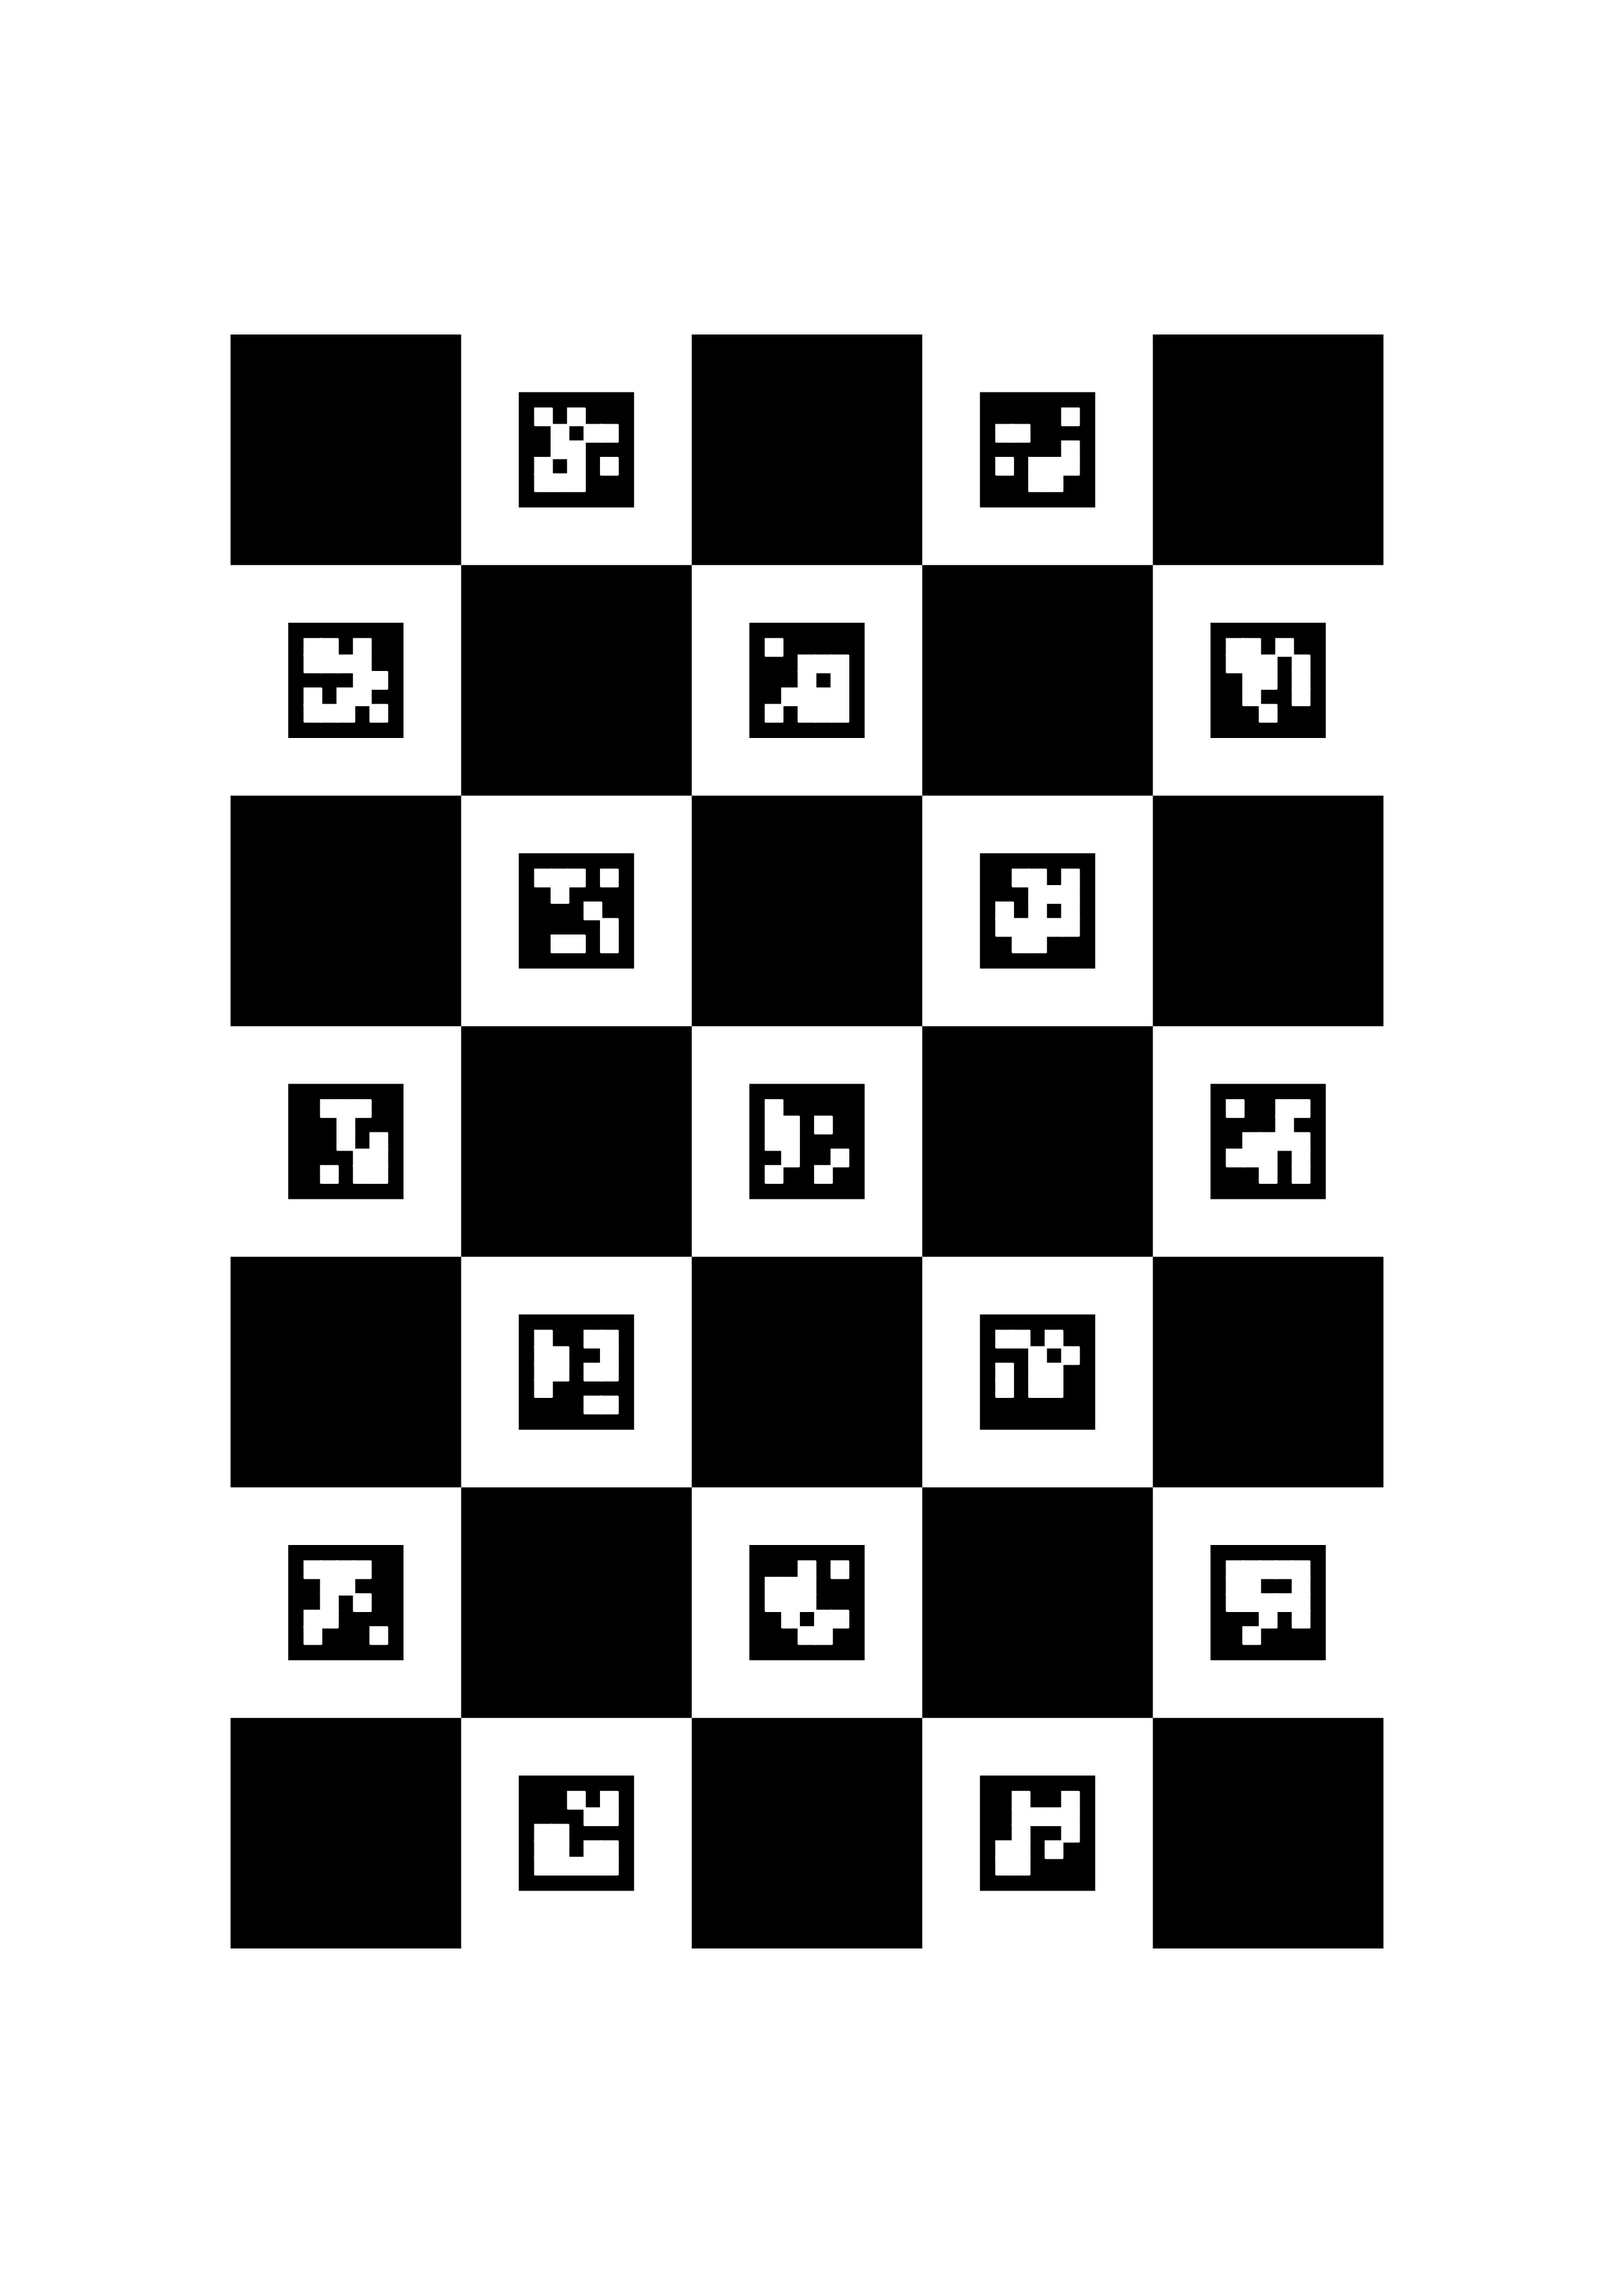
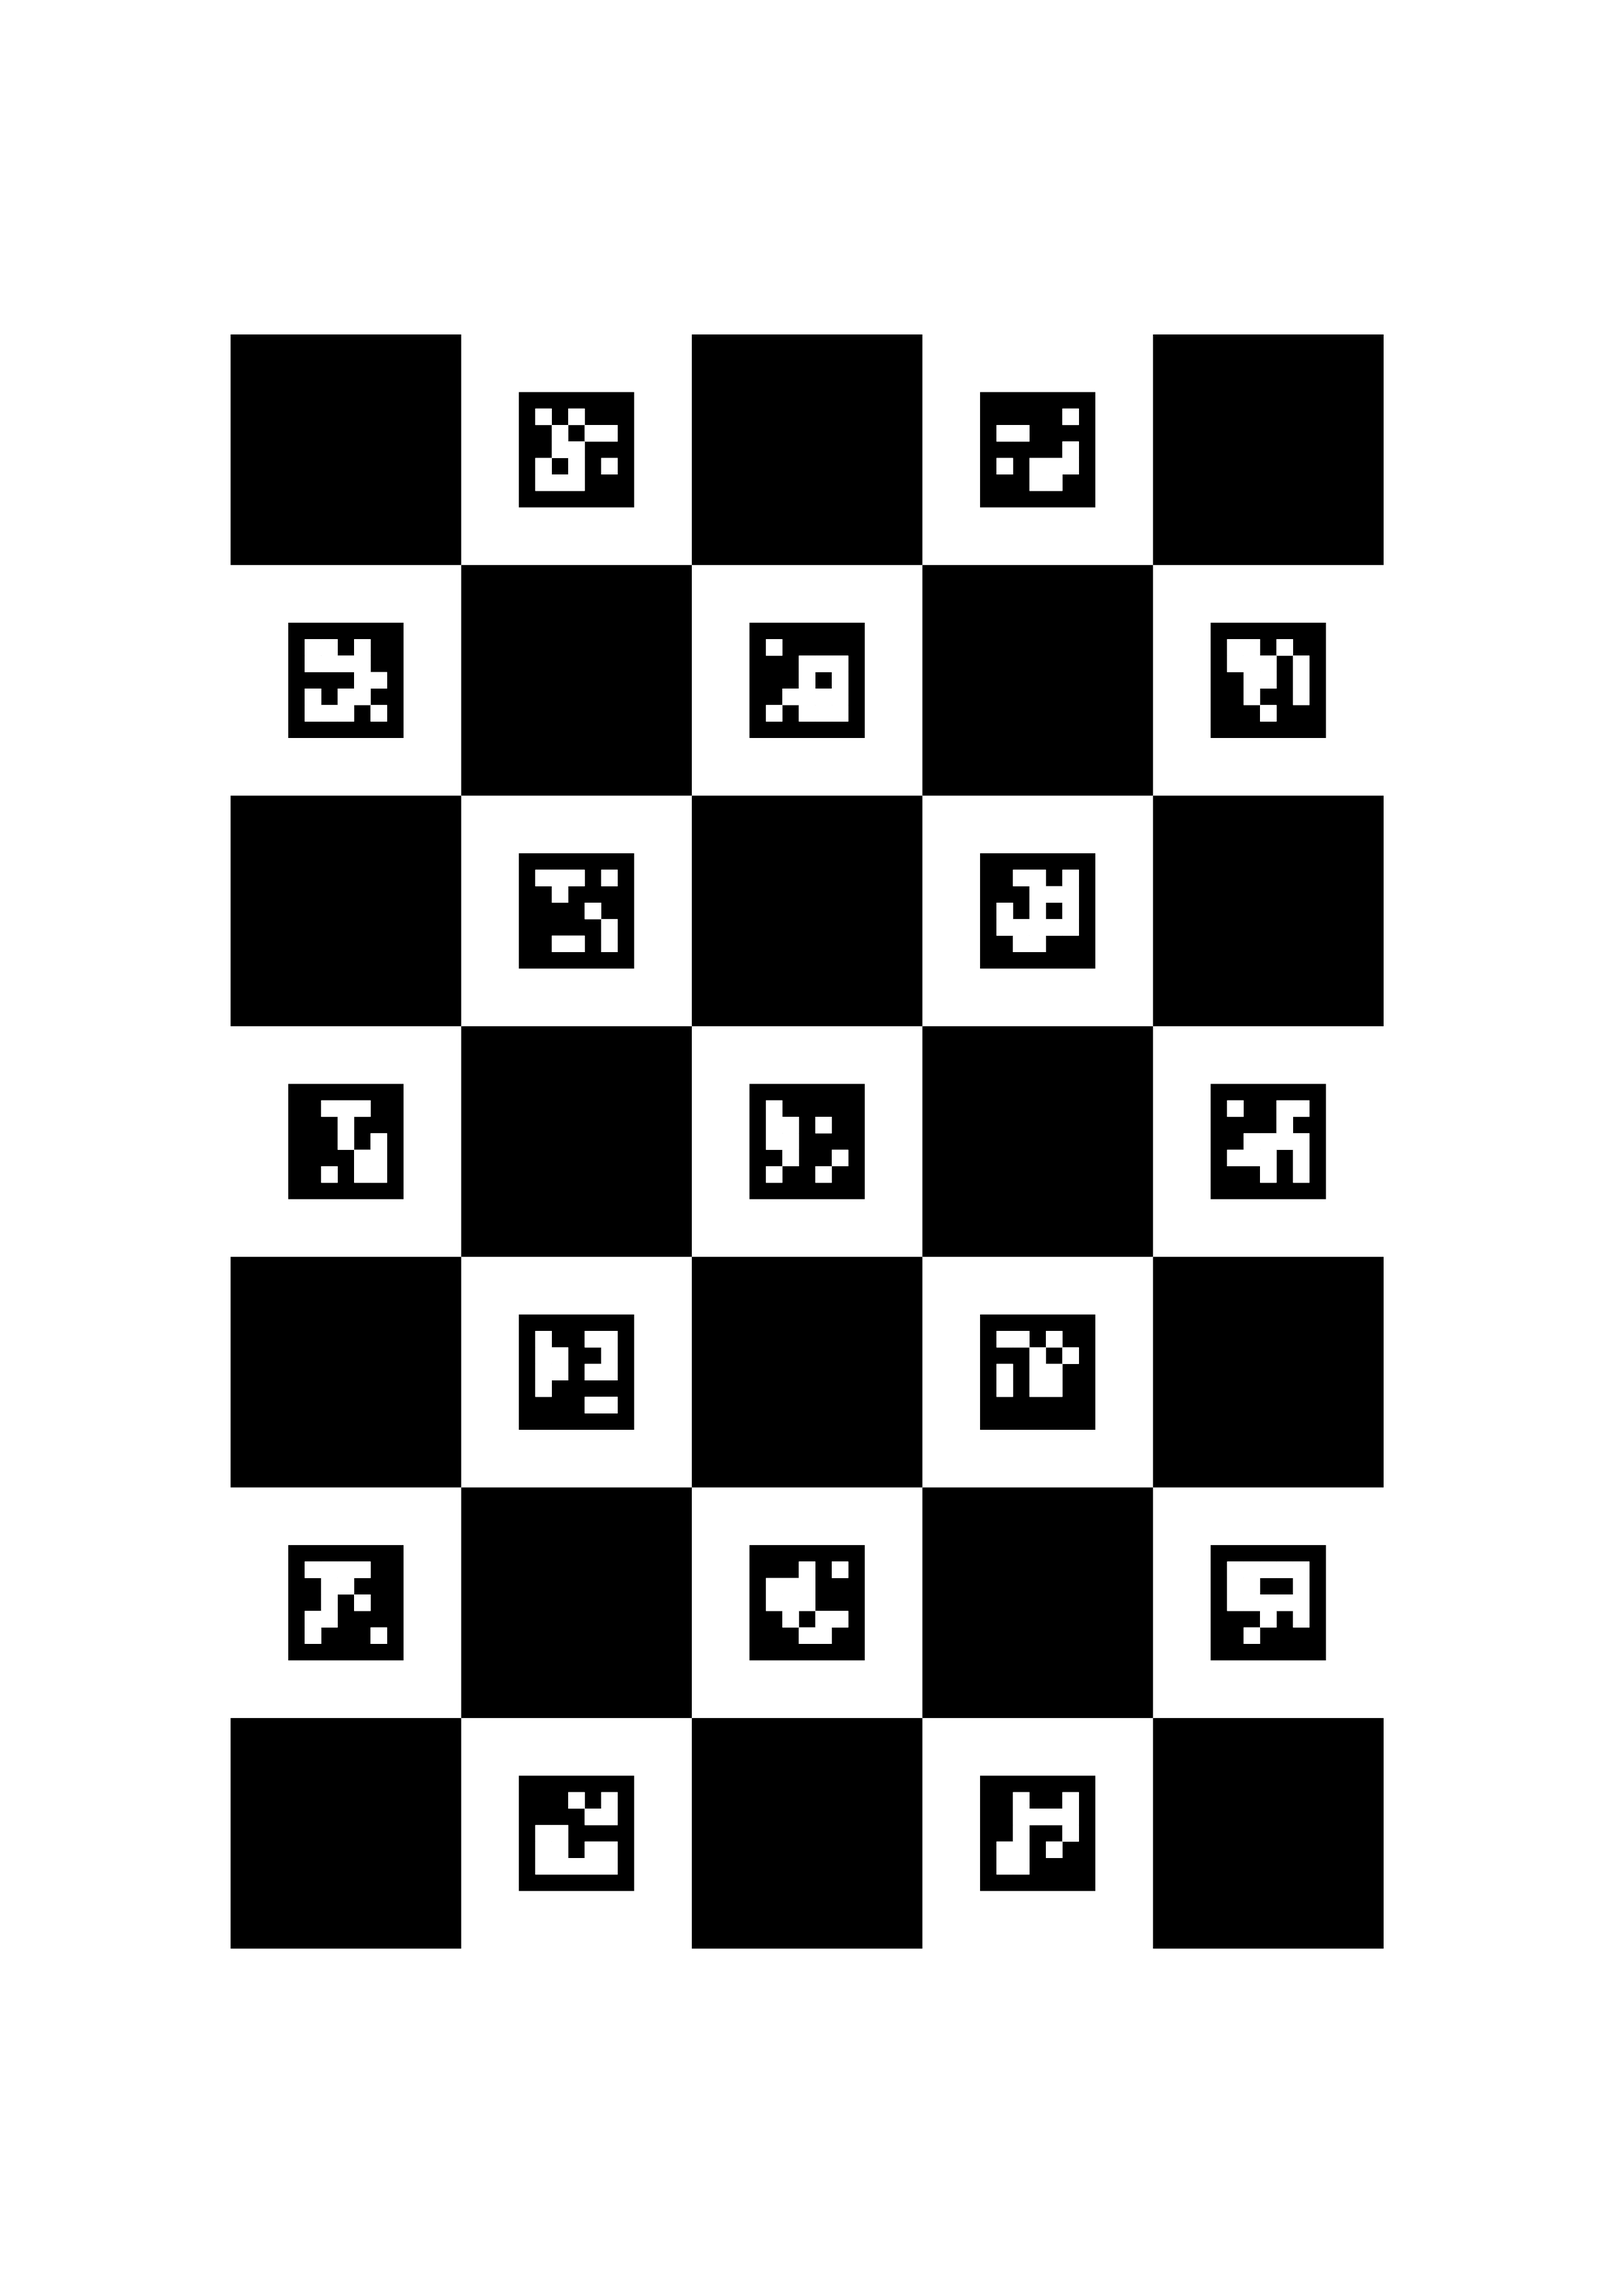
Merge pull request #27876 from MaximSmolskiy:fix_charuco_board_pattern_in_generate_pattern.py
Fix charuco_board_pattern in generate_pattern.py #27876

### Pull Request Readiness Checklist

Fix #27871 

See details at https://github.com/opencv/opencv/wiki/How_to_contribute#making-a-good-pull-request

- [x] I agree to contribute to the project under Apache 2 License.
- [x] To the best of my knowledge, the proposed patch is not based on a code under GPL or another license that is incompatible with OpenCV
- [x] The PR is proposed to the proper branch
- [x] There is a reference to the original bug report and related work
- [ ] There is accuracy test, performance test and test data in opencv_extra repository, if applicable
      Patch to opencv_extra has the same branch name.
- [ ] The feature is well documented and sample code can be built with the project CMake

Changed region(s): [[0.7762, 0.2796, 0.8073, 0.3107], [0.4968, 0.6836, 0.5278, 0.7147], [0.3415, 0.1864, 0.3726, 0.2175]]

diff --git a/apps/pattern-tools/generate_pattern.py b/apps/pattern-tools/generate_pattern.py
@@ -207,12 +207,36 @@ class PatternMaker:
                     square = SVG("rect", x=x_pos+ch_ar_border, y=y_pos+ch_ar_border, width=self.aruco_marker_size,
                                              height=self.aruco_marker_size, fill="black", stroke="none")
                     self.g.append(square)
+
+                    # BUG: https://github.com/opencv/opencv/issues/27871
+                    # The loop bellow merges white squares horizontally and vertically to exclude visible grid on the final pattern
                     for x_ in range(len(img_mark[0])):
-                        for y_ in range(len(img_mark)):
-                            if (img_mark[y_][x_] != 0):
-                                square = SVG("rect", x=x_pos+ch_ar_border+(x_)*side, y=y_pos+ch_ar_border+(y_)*side, width=side,
-                                             height=side, fill="white", stroke="white", stroke_width = spacing*0.01)
-                                self.g.append(square)
+                        y_ = 0
+                        while y_ < len(img_mark):
+                            y_start = y_
+                            while y_ < len(img_mark) and img_mark[y_][x_] != 0:
+                                y_ += 1
+
+                            if y_ > y_start:
+                                rect = SVG("rect", x=x_pos+ch_ar_border+(x_)*side, y=y_pos+ch_ar_border+(y_start)*side, width=side,
+                                           height=(y_ - y_start)*side, fill="white", stroke="none")
+                                self.g.append(rect)
+
+                            y_ += 1
+
+                    for y_ in range(len(img_mark)):
+                        x_ = 0
+                        while x_ < len(img_mark[0]):
+                            x_start = x_
+                            while x_ < len(img_mark[0]) and img_mark[y_][x_] != 0:
+                                x_ += 1
+
+                            if x_ > x_start:
+                                rect = SVG("rect", x=x_pos+ch_ar_border+(x_start)*side, y=y_pos+ch_ar_border+(y_)*side, width=(x_-x_start)*side,
+                                           height=side, fill="white", stroke="none")
+                                self.g.append(rect)
+
+                            x_ += 1
 
     def save(self):
         c = canvas(self.g, width="%d%s" % (self.width, self.units), height="%d%s" % (self.height, self.units),
